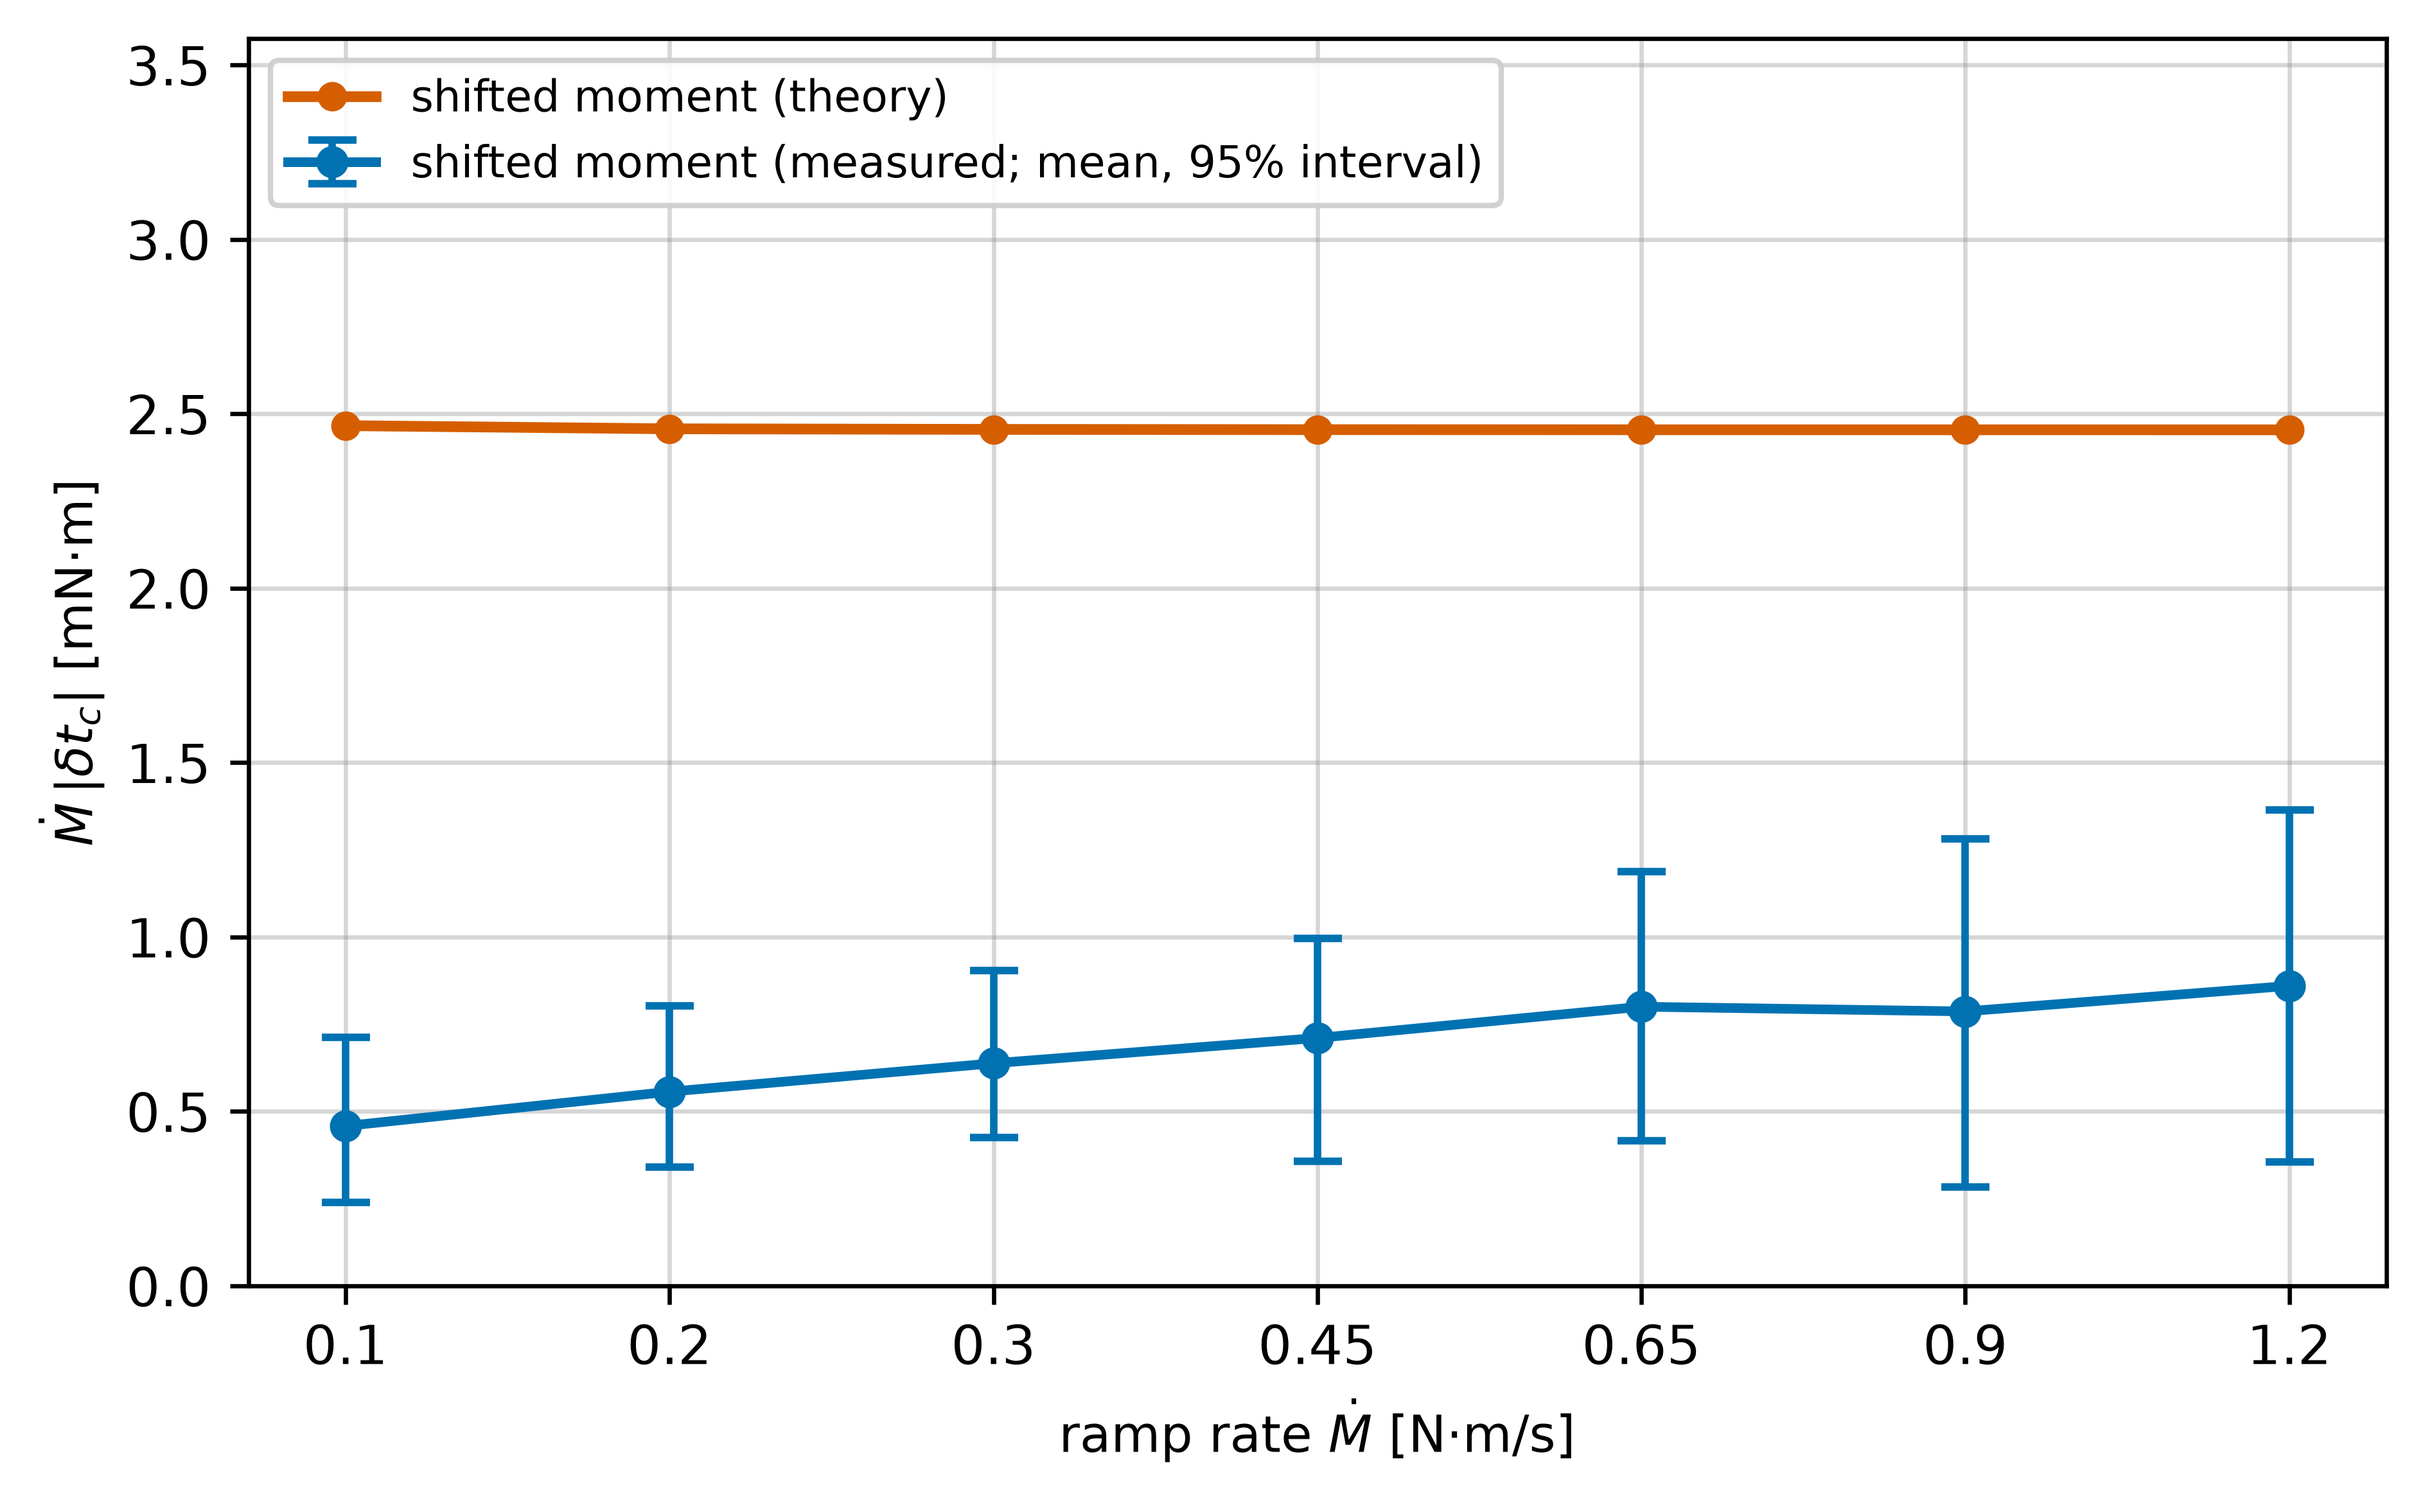
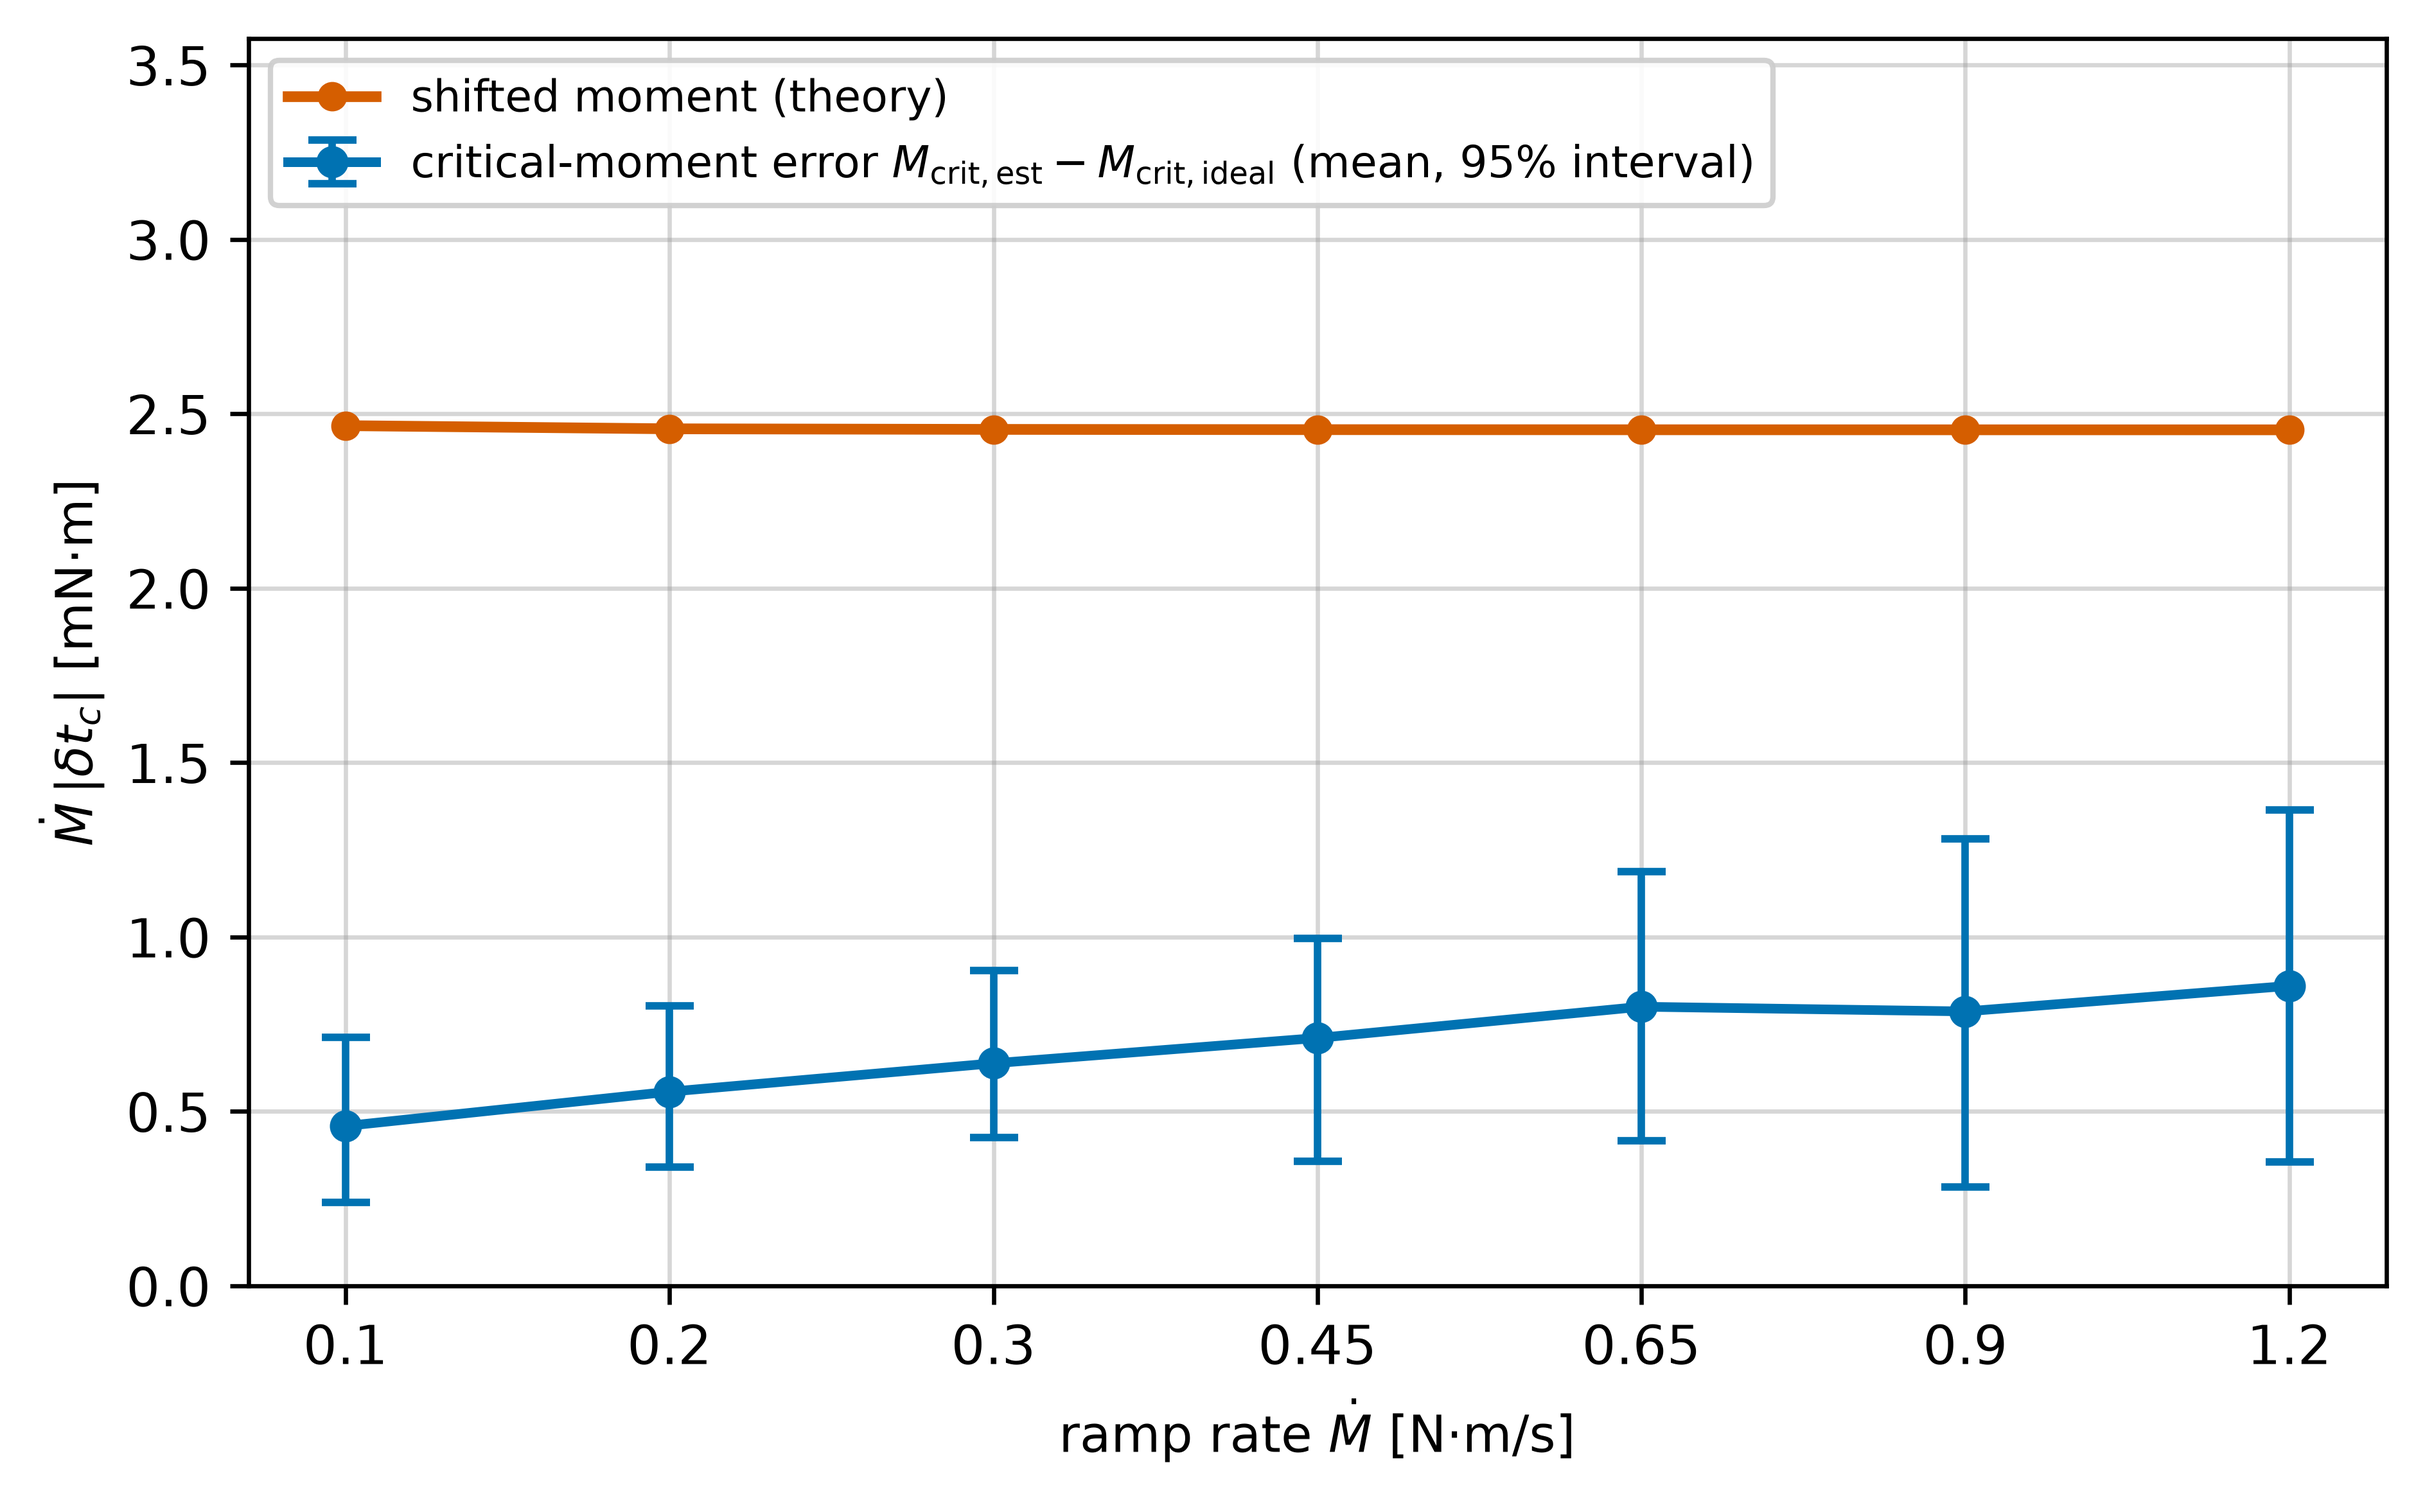
Name the measured series the critical-moment error
Claude-Session: https://claude.ai/code/session_01BM6bcsm1ZtLtgegEeuFDVS

Changed region(s): [[0.3099, 0.0936, 0.7438, 0.156], [0.6199, 0.0312, 0.7438, 0.0624], [0.155, 0.0936, 0.2479, 0.1248]]

diff --git a/analysis/shift_validation_fig.py b/analysis/shift_validation_fig.py
@@ -66,7 +66,7 @@ def main():
     ax.errorbar(ix, mean, yerr=[mean - lo, hi - mean], fmt='o-',
                 lw=1.8, ms=5, color='#0072B2', ecolor='#0072B2',
                 elinewidth=1.4, capsize=4.5, capthick=1.4, zorder=3,
-                label='shifted moment (measured; mean, 95% interval)')
+                label=r'critical-moment error $M_{\mathrm{crit,est}}-M_{\mathrm{crit,ideal}}$ (mean, 95% interval)')
     bad = [i for i, (h, c) in enumerate(zip(hi, ceil)) if h > c]
     if bad:
         ax.plot([list(ix)[i] for i in bad], [hi[i] for i in bad],
